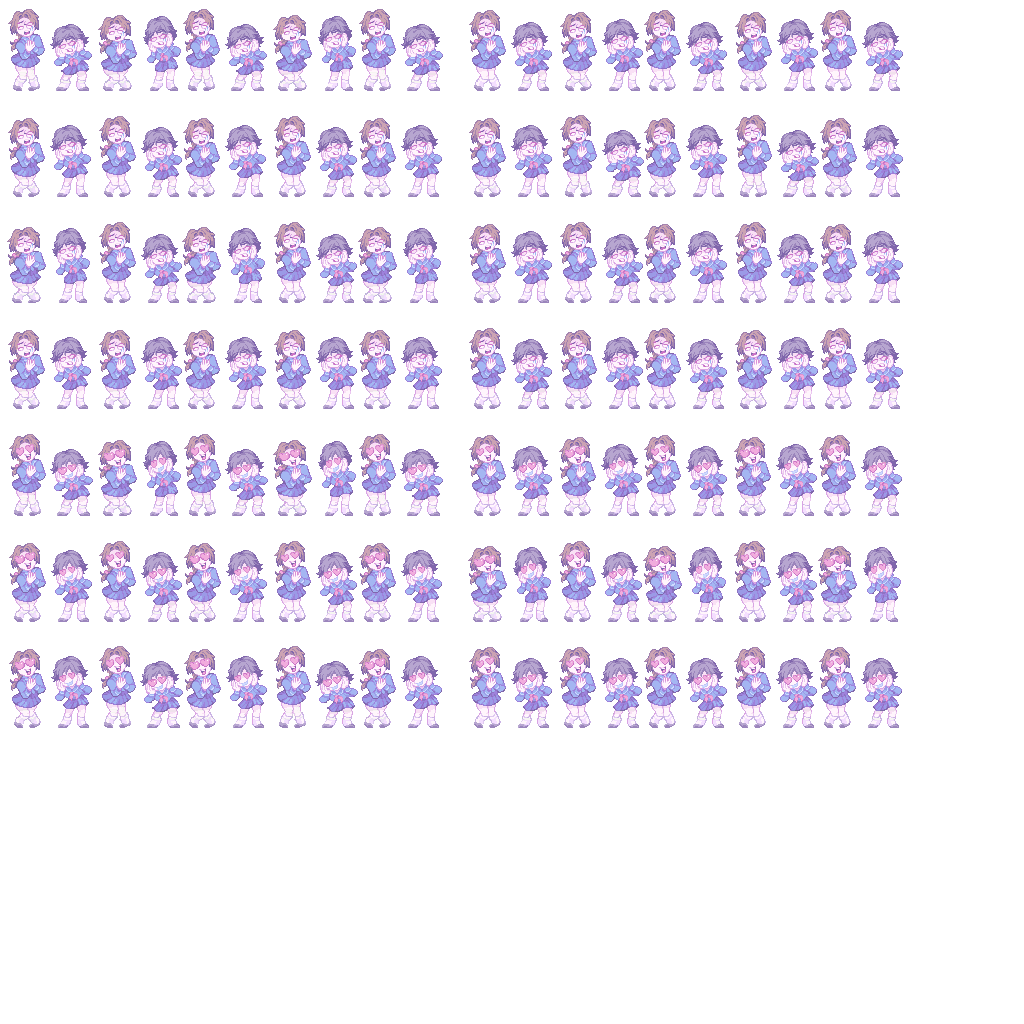
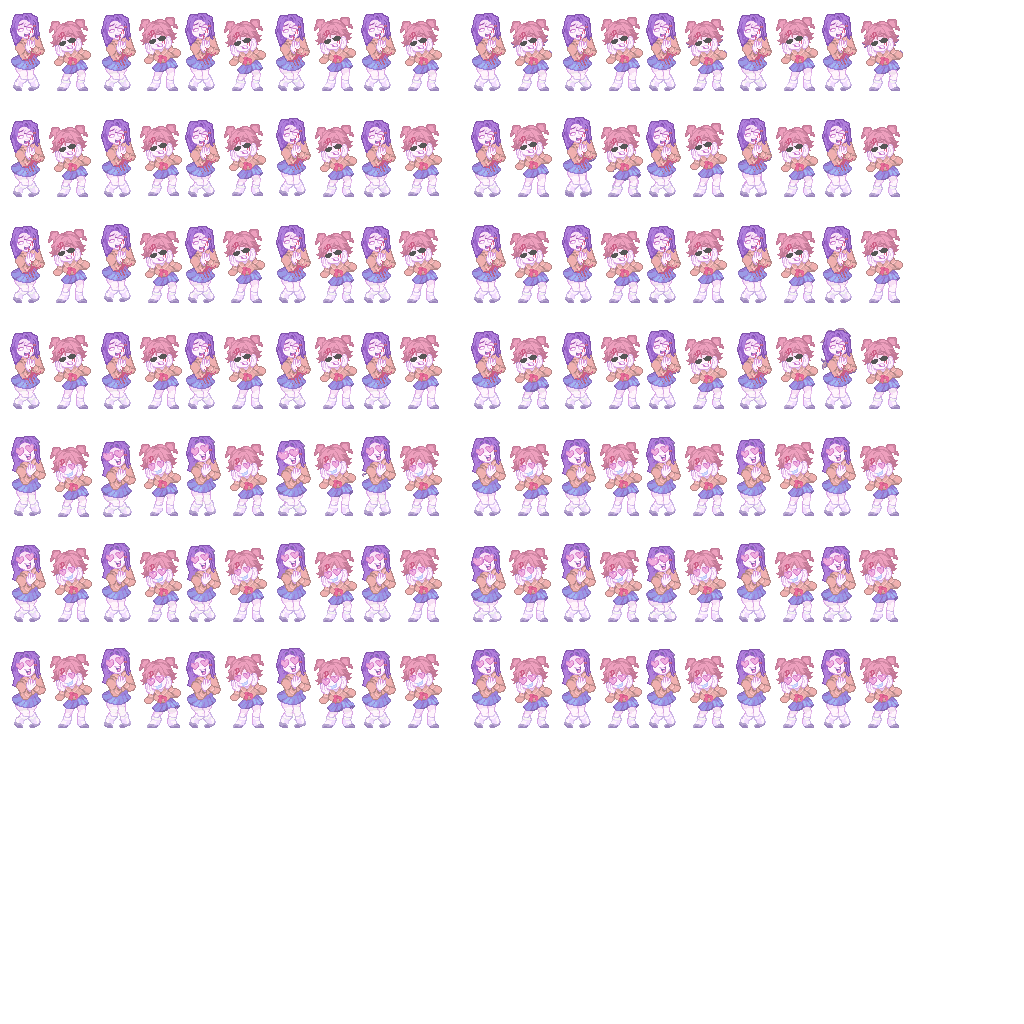
f

diff --git a/fnf/index.html b/fnf/index.html
@@ -1,6 +1,7 @@
-<p>&nbsp;</p>
-<h1><span style="color: #ff9900;">&nbsp; &nbsp; &nbsp; &nbsp; &nbsp; &nbsp; &nbsp; &nbsp; &nbsp;Friday Night Funkin</span></h1>
-<p>&nbsp;</p>
+<h1>&nbsp;</h1>
+<h2>CHANGELOG:</h2>
+<p><span style="background-color: #000000; color: #ffffff;">1.added ddlc reskin to monika it changed gf to pixel sayori and the background girls into yuri and Natsuki</span></p>
+<p><span style="background-color: #000000; color: #ffffff;">2.added amogus</span></p>
 <h1><span style="color: #ff9900;">&nbsp; &nbsp; &nbsp; &nbsp; &nbsp; &nbsp; &nbsp; &nbsp; &nbsp;Friday Night Funkin</span></h1>
 <p><span style="color: #000000;"><a href="./original">Friday Night Funkin Original</a></span></p>
 <p><span style="color: #000000;"><span style="background-color: #ff0000; color: #ffffff;">Uh oh! Your tryin to kiss ur hot girlfriend, but her MEAN and EVIL dad is trying to KILL you! He's an ex-rockstar, the only way to get to his heart? The power of music...</span></span></p>
